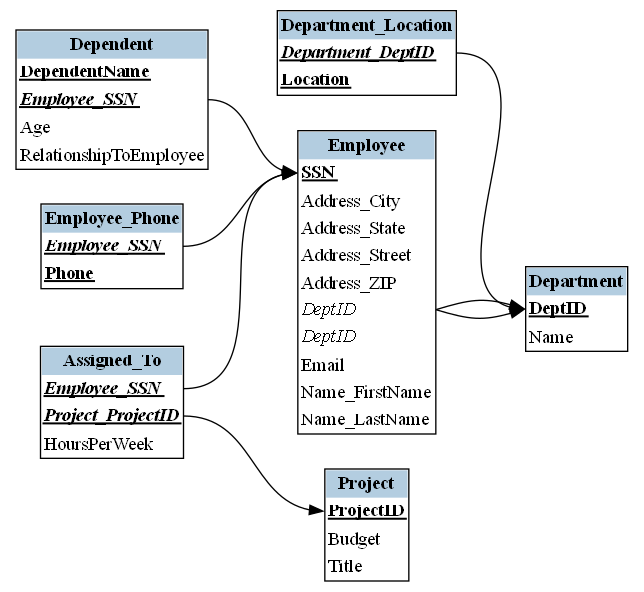
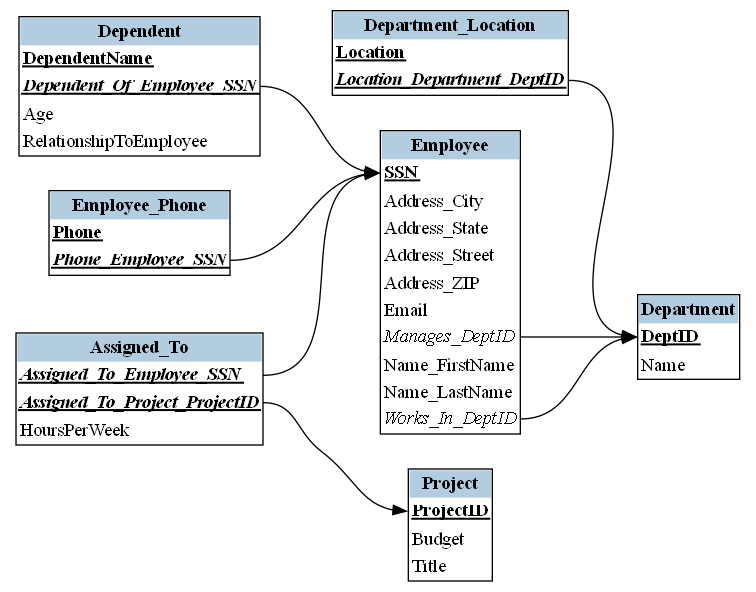
finish

diff --git a/build_table.py b/build_table.py
@@ -1,13 +1,13 @@
-from typing import Dict, List, Any, Optional
+from typing import Dict, List, Any
 from graphviz import Digraph
 
 def add_column(
     tables,
     table_name,
     col_name,
-    primary = False,
-    foreign = False,
-    references = None,
+    primary=False,
+    foreign=False,
+    references=None,
 ):
     tables[table_name].append(
         {"name": col_name, "primary": primary, "foreign": foreign, "references": references}
@@ -18,13 +18,15 @@ def add_fks(
     entity_pk_components,
     target_table,
     ref_table,
+    rel_name,
 ):
+    """Add foreign keys prefixed by the relationship name."""
     ref_pks = entity_pk_components.get(ref_table, [])
     for pk in ref_pks:
         add_column(
             tables,
             target_table,
-            pk,
+            f"{rel_name}_{pk}",
             foreign=True,
             references={"table": ref_table, "attribute": pk},
         )
@@ -82,7 +84,7 @@ def generate_tables(data: Dict[str, Any]) -> Dict[str, List[Dict[str, Any]]]:
                     add_column(
                         tables,
                         rt,
-                        f"{p_name}_{pk}",
+                        f"{rel_name}_{p_name}_{pk}",
                         primary=True,
                         foreign=True,
                         references={"table": p_name, "attribute": pk},
@@ -107,7 +109,7 @@ def generate_tables(data: Dict[str, Any]) -> Dict[str, List[Dict[str, Any]]]:
                     add_column(
                         tables,
                         weak_ent,
-                        f"{owner_ent}_{pk}",
+                        f"{rel_name}_{owner_ent}_{pk}",
                         primary=True,
                         foreign=True,
                         references={"table": owner_ent, "attribute": pk},
@@ -118,11 +120,11 @@ def generate_tables(data: Dict[str, Any]) -> Dict[str, List[Dict[str, Any]]]:
 
         # cardinalities
         if (left_card == "1") and (right_card == "1"):
-            add_fks(tables, entity_pk_components, left_name, right_name)
+            add_fks(tables, entity_pk_components, left_name, right_name, rel_name)
         elif (left_card == "1") and (right_card.upper() == "N"):
-            add_fks(tables, entity_pk_components, right_name, left_name)
+            add_fks(tables, entity_pk_components, right_name, left_name, rel_name)
         elif (right_card == "1") and (left_card.upper() == "N"):
-            add_fks(tables, entity_pk_components, left_name, right_name)
+            add_fks(tables, entity_pk_components, left_name, right_name, rel_name)
         else:
             joint_name = rel_name
             tables[joint_name] = []
@@ -131,22 +133,22 @@ def generate_tables(data: Dict[str, Any]) -> Dict[str, List[Dict[str, Any]]]:
                 add_column(
                     tables,
                     joint_name,
-                    f"{left_name}_{pk}",
+                    f"{rel_name}_{left_name}_{pk}",
                     primary=True,
                     foreign=True,
                     references={"table": left_name, "attribute": pk},
                 )
 
-            for pk in entity_pk_components.get(right_name, []) :
+            for pk in entity_pk_components.get(right_name, []):
                 add_column(
                     tables,
                     joint_name,
-                    f"{right_name}_{pk}",
+                    f"{rel_name}_{right_name}_{pk}",
                     primary=True,
                     foreign=True,
                     references={"table": right_name, "attribute": pk},
                 )
-                
+
             for a in rel_attrs:
                 add_column(tables, joint_name, a["name"])
 
@@ -162,7 +164,7 @@ def generate_tables(data: Dict[str, Any]) -> Dict[str, List[Dict[str, Any]]]:
             add_column(
                 tables,
                 mv_table,
-                f"{ent_name}_{pk}",
+                f"{att_name}_{ent_name}_{pk}",
                 primary=True,
                 foreign=True,
                 references={"table": ent_name, "attribute": pk},

diff --git a/Readme.md b/Readme.md
@@ -1,0 +1,67 @@
+# ERD-to-Relational Model Visual Converter
+
+## 📘 Objective
+This project automatically converts an **Entity–Relationship Diagram (ERD)**, provided in **JSON format**, into a **visual Relational Model diagram**.
+
+The output diagram shows:
+- Each entity as a table with its attributes
+- **Primary keys** underlined and bold
+- **Foreign keys** italicized
+- **Arrows** indicating relationships between tables
+
+---
+
+## 🧩 Description
+The program reads a structured JSON file describing entities and relationships, applies **ER-to-Relational transformation rules**, and generates a **relational schema diagram** using Graphviz.
+
+Main features:
+- Converts entities and relationships to relational tables
+- Handles **composite**, **multivalued**, **primary**, **partial**, and **weak** attributes
+- Supports identifying and non-identifying relationships
+- Produces a **.png diagram** showing all tables and foreign key links
+
+---
+
+## ⚙ How the Code Works
+
+| Stage | Module / Function | Description |
+|--------|-------------------|--------------|
+| **1. JSON Loading** | `load_json()` in `script.py` | Reads and parses the ERD JSON file, handling errors like missing or invalid files. |
+| **2. Table Generation** | `generate_tables()` in `build_table.py` | Transforms entities and relationships into relational tables according to ER mapping rules. |
+| **3. Column Management** | `add_column()`, `add_fks()` | Adds attributes to tables, labeling primary and foreign keys and their references. |
+| **4. Visualization** | `tables_to_graph()` in `render.py` | Builds and renders the final relational schema diagram using Graphviz table nodes and arrows. |
+| **5. Execution Flow** | Main block (`if __name__ == "__main__":`) | Orchestrates the workflow: load → transform → render. |
+
+### Example Command:
+```bash
+python script.py input.json
+```
+
+---
+
+## 🧠 Main Libraries Used
+
+| Library | Purpose |
+|----------|----------|
+| `json` | Parses the ERD description from a JSON file. |
+| `os`, `sys` | Handles command-line arguments and file paths. |
+| `typing` | Adds type hints for cleaner, safer code. |
+| `graphviz` | Generates and renders the relational schema diagram as a PNG image. |
+
+---
+
+## 📋 Assumptions
+1. Input JSON strictly follows the lab specification (must include `entities` and `relationships`).
+2. Each entity has a unique name.
+3. Attributes may be **simple**, **composite**, **multivalued**, or **key** (primary/partial).
+4. Relationships specify participating entities and cardinalities (`1`, `N`, etc.).
+5. Weak entities are marked with `"isWeak": true`, and identifying relationships use `"isIdentifying": true`.
+6. The system has **Graphviz** installed and available in the PATH.
+
+---
+
+## 🧾 Conclusion
+This tool automates the ER-to-Relational mapping process, ensuring consistency and accuracy.  
+It produces clear, visual representations of relational schemas and demonstrates strong understanding of database modeling concepts combined with practical Python implementation.
+
+---
